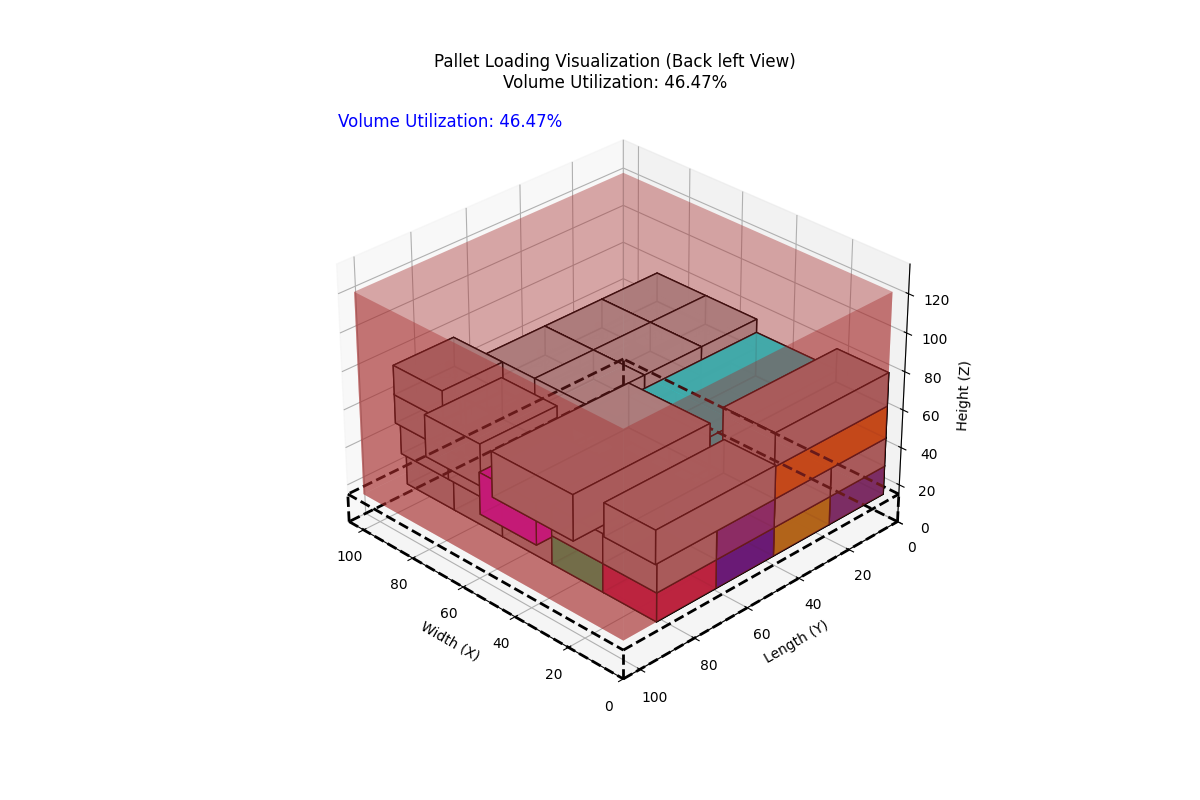
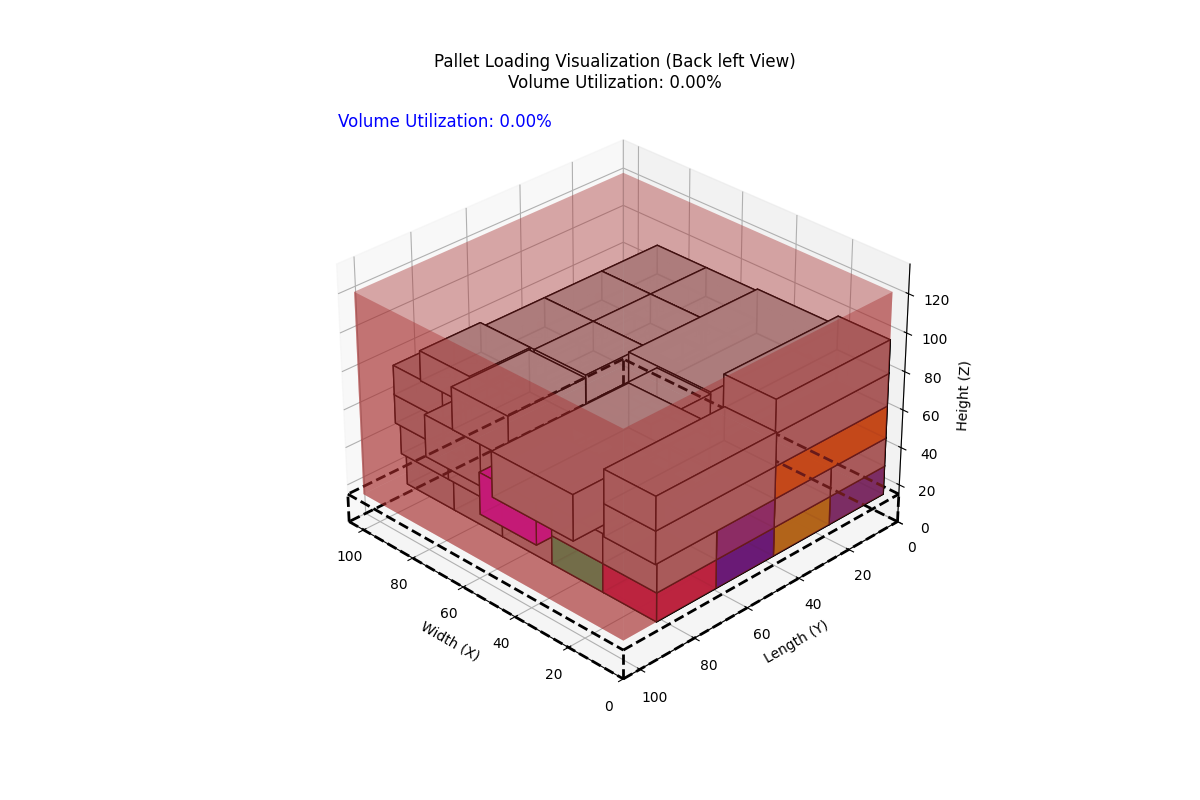
P3

diff --git a/New folder/robot_packing_pipeline_final.py b/New folder/robot_packing_pipeline_final.py
@@ -1,0 +1,142 @@
+import pandas as pd
+import time
+import os
+import matplotlib.pyplot as plt
+from typing import Tuple
+
+# ===== PARAMETERS =====
+CONTAINER_SPECS = {
+    "pallet": lambda h: (1100, 1100, h),
+    "f15": (1100, 1100, 1060),
+    "f5": (1100, 1100, 680)
+}
+
+GAP = 5  # default gap (can be updated dynamically)
+
+# ===== CORE ALGORITHM =====
+def is_colliding(candidate, placed_boxes):
+    for box in placed_boxes:
+        if not (
+            candidate["X"] + candidate["Length"] <= box["X"] or
+            candidate["X"] >= box["X"] + box["Length"] or
+            candidate["Y"] + candidate["Width"] <= box["Y"] or
+            candidate["Y"] >= box["Y"] + box["Width"] or
+            candidate["Z"] + candidate["Height"] <= box["Z"] or
+            candidate["Z"] >= box["Z"] + box["Height"]
+        ):
+            return True
+    return False
+
+def is_supported_multibox(x, y, z, box_L, box_W, placed_boxes):
+    com_x = x + box_L / 2
+    com_y = y + box_W / 2
+    if z == 0:
+        return True
+    support_area = 0
+    for b in placed_boxes:
+        if abs(b["Z"] + b["Height"] - z) < 1e-6:
+            if b["X"] <= com_x <= b["X"] + b["Length"] and b["Y"] <= com_y <= b["Y"] + b["Width"]:
+                return True
+            overlap_x = max(0, min(x + box_L, b["X"] + b["Length"]) - max(x, b["X"]))
+            overlap_y = max(0, min(y + box_W, b["Y"] + b["Width"]) - max(y, b["Y"]))
+            support_area += overlap_x * overlap_y
+    return support_area >= (box_L * box_W * 0.5)
+
+def generate_candidate_positions_with_floor(placed_boxes, gap, container_dims):
+    candidates = set()
+    for x in range(0, container_dims[0], 50):
+        for y in range(0, container_dims[1], 50):
+            candidates.add((x, y, 0))
+    for b in placed_boxes:
+        for dx in [0, b["Length"]]:
+            for dy in [0, b["Width"]]:
+                for dz in [0, b["Height"]]:
+                    x = b["X"] + dx
+                    y = b["Y"] + dy
+                    z = b["Z"] + dz
+                    if 0 <= x < container_dims[0] and 0 <= y < container_dims[1] and 0 <= z < container_dims[2]:
+                        candidates.add((x, y, z))
+    return sorted(list(candidates), key=lambda pos: (pos[2], pos[1], pos[0]))
+
+def greedy_surface_fit(df: pd.DataFrame, container_dims: Tuple[int, int, int], gap: int) -> Tuple[pd.DataFrame, pd.DataFrame]:
+    placed, roller = [], []
+    for priority in sorted(df["Priority"].unique()):
+        df_priority = df[df["Priority"] == priority]
+        for _, row in df_priority.iterrows():
+            for _ in range(int(row["QTY"])):  # ใช้ QTY เพื่อเพิ่มจำนวนกล่อง
+                box_L = int(row["Length"] + gap)
+                box_W = int(row["Width"] + gap)
+                box_H = int(row["Height"] + gap)
+                candidates = generate_candidate_positions_with_floor(placed, gap, container_dims)
+                placed_flag = False
+                for x, y, z in candidates:
+                    if x + box_L > container_dims[0] or y + box_W > container_dims[1] or z + box_H > container_dims[2]:
+                        continue
+                    candidate_box = {"X": x, "Y": y, "Z": z, "Length": box_L, "Width": box_W, "Height": box_H}
+                    if not is_colliding(candidate_box, placed) and is_supported_multibox(x, y, z, box_L, box_W, placed):
+                        candidate_box.update({"SKU": row["BoxTypes"], "Priority": row["Priority"]})
+                        placed.append(candidate_box)
+                        placed_flag = True
+                        break
+                if not placed_flag:
+                    roller.append(row.to_dict())
+    df_placed = pd.DataFrame(placed)
+    df_unplaced = pd.DataFrame(roller)
+    df_placed["Z"] = df_placed["Z"] + df_placed["Height"]  # convert to top of box
+    return df_placed, df_unplaced
+
+# ===== VISUALIZATION =====
+def plot_3d(df: pd.DataFrame, container_dims: Tuple[int, int, int], utilization: float):
+    fig = plt.figure()
+    ax = fig.add_subplot(111, projection='3d')
+    ax.set_xlim([0, container_dims[0]])
+    ax.set_ylim([0, container_dims[1]])
+    ax.set_zlim([0, container_dims[2]])
+    for box in df.itertuples():
+        ax.bar3d(box.X, box.Y, box.Z - box.Height, box.Length, box.Width, box.Height, shade=True)
+    plt.title(f"3D Box Placement (Utilization: {utilization:.2f}%)")
+    plt.savefig("placement_visualization.png")
+    plt.show()
+
+# ===== EXPORT FILES =====
+def export_output(df_placed: pd.DataFrame, df_unplaced: pd.DataFrame):
+    df_placed.to_csv("placed_boxes.csv", index=False)
+    df_unplaced.to_csv("free_roller_boxes.csv", index=False)
+
+# ===== MAIN LOOP =====
+def determine_container_type(container_type: str, pallet_height: int):
+    return CONTAINER_SPECS[container_type](pallet_height) if container_type == "pallet" else CONTAINER_SPECS[container_type]
+
+def main():
+    # อ่านข้อมูลจากไฟล์ forinput.csv
+    input_file_path = "D:\\forimport.csv"
+    if not os.path.exists(input_file_path):
+        print(f"Error: File {input_file_path} not found.")
+        return
+
+    # โหลดข้อมูลกล่องจากไฟล์ CSV
+    df = pd.read_csv(input_file_path)
+    print("Input data loaded successfully.")
+
+    # กำหนดประเภทคอนเทนเนอร์และความสูงของพาเลท (ถ้าใช้พาเลท)
+    container_type = "pallet"  # ตัวอย่าง: "pallet", "f15", "f5"
+    pallet_height = 1200  # ความสูงของพาเลท (ถ้าใช้ "pallet")
+    container_dims = determine_container_type(container_type, pallet_height)
+
+    # เรียกใช้ฟังก์ชันจัดเรียงกล่อง
+    df_placed, df_unplaced = greedy_surface_fit(df, container_dims, GAP)
+
+    # คำนวณการใช้งานพื้นที่
+    total_volume = container_dims[0] * container_dims[1] * container_dims[2]
+    used_volume = (df_placed["Length"] * df_placed["Width"] * df_placed["Height"]).sum()
+    utilization = (used_volume / total_volume) * 100 if total_volume > 0 else 0
+
+    # แสดงผลการจัดเรียงกล่องในรูปแบบ 3D
+    plot_3d(df_placed, container_dims, utilization)
+
+    # ส่งออกผลลัพธ์เป็นไฟล์ CSV
+    export_output(df_placed, df_unplaced)
+    print("Output files exported successfully.")
+
+if __name__ == "__main__":
+    main()
